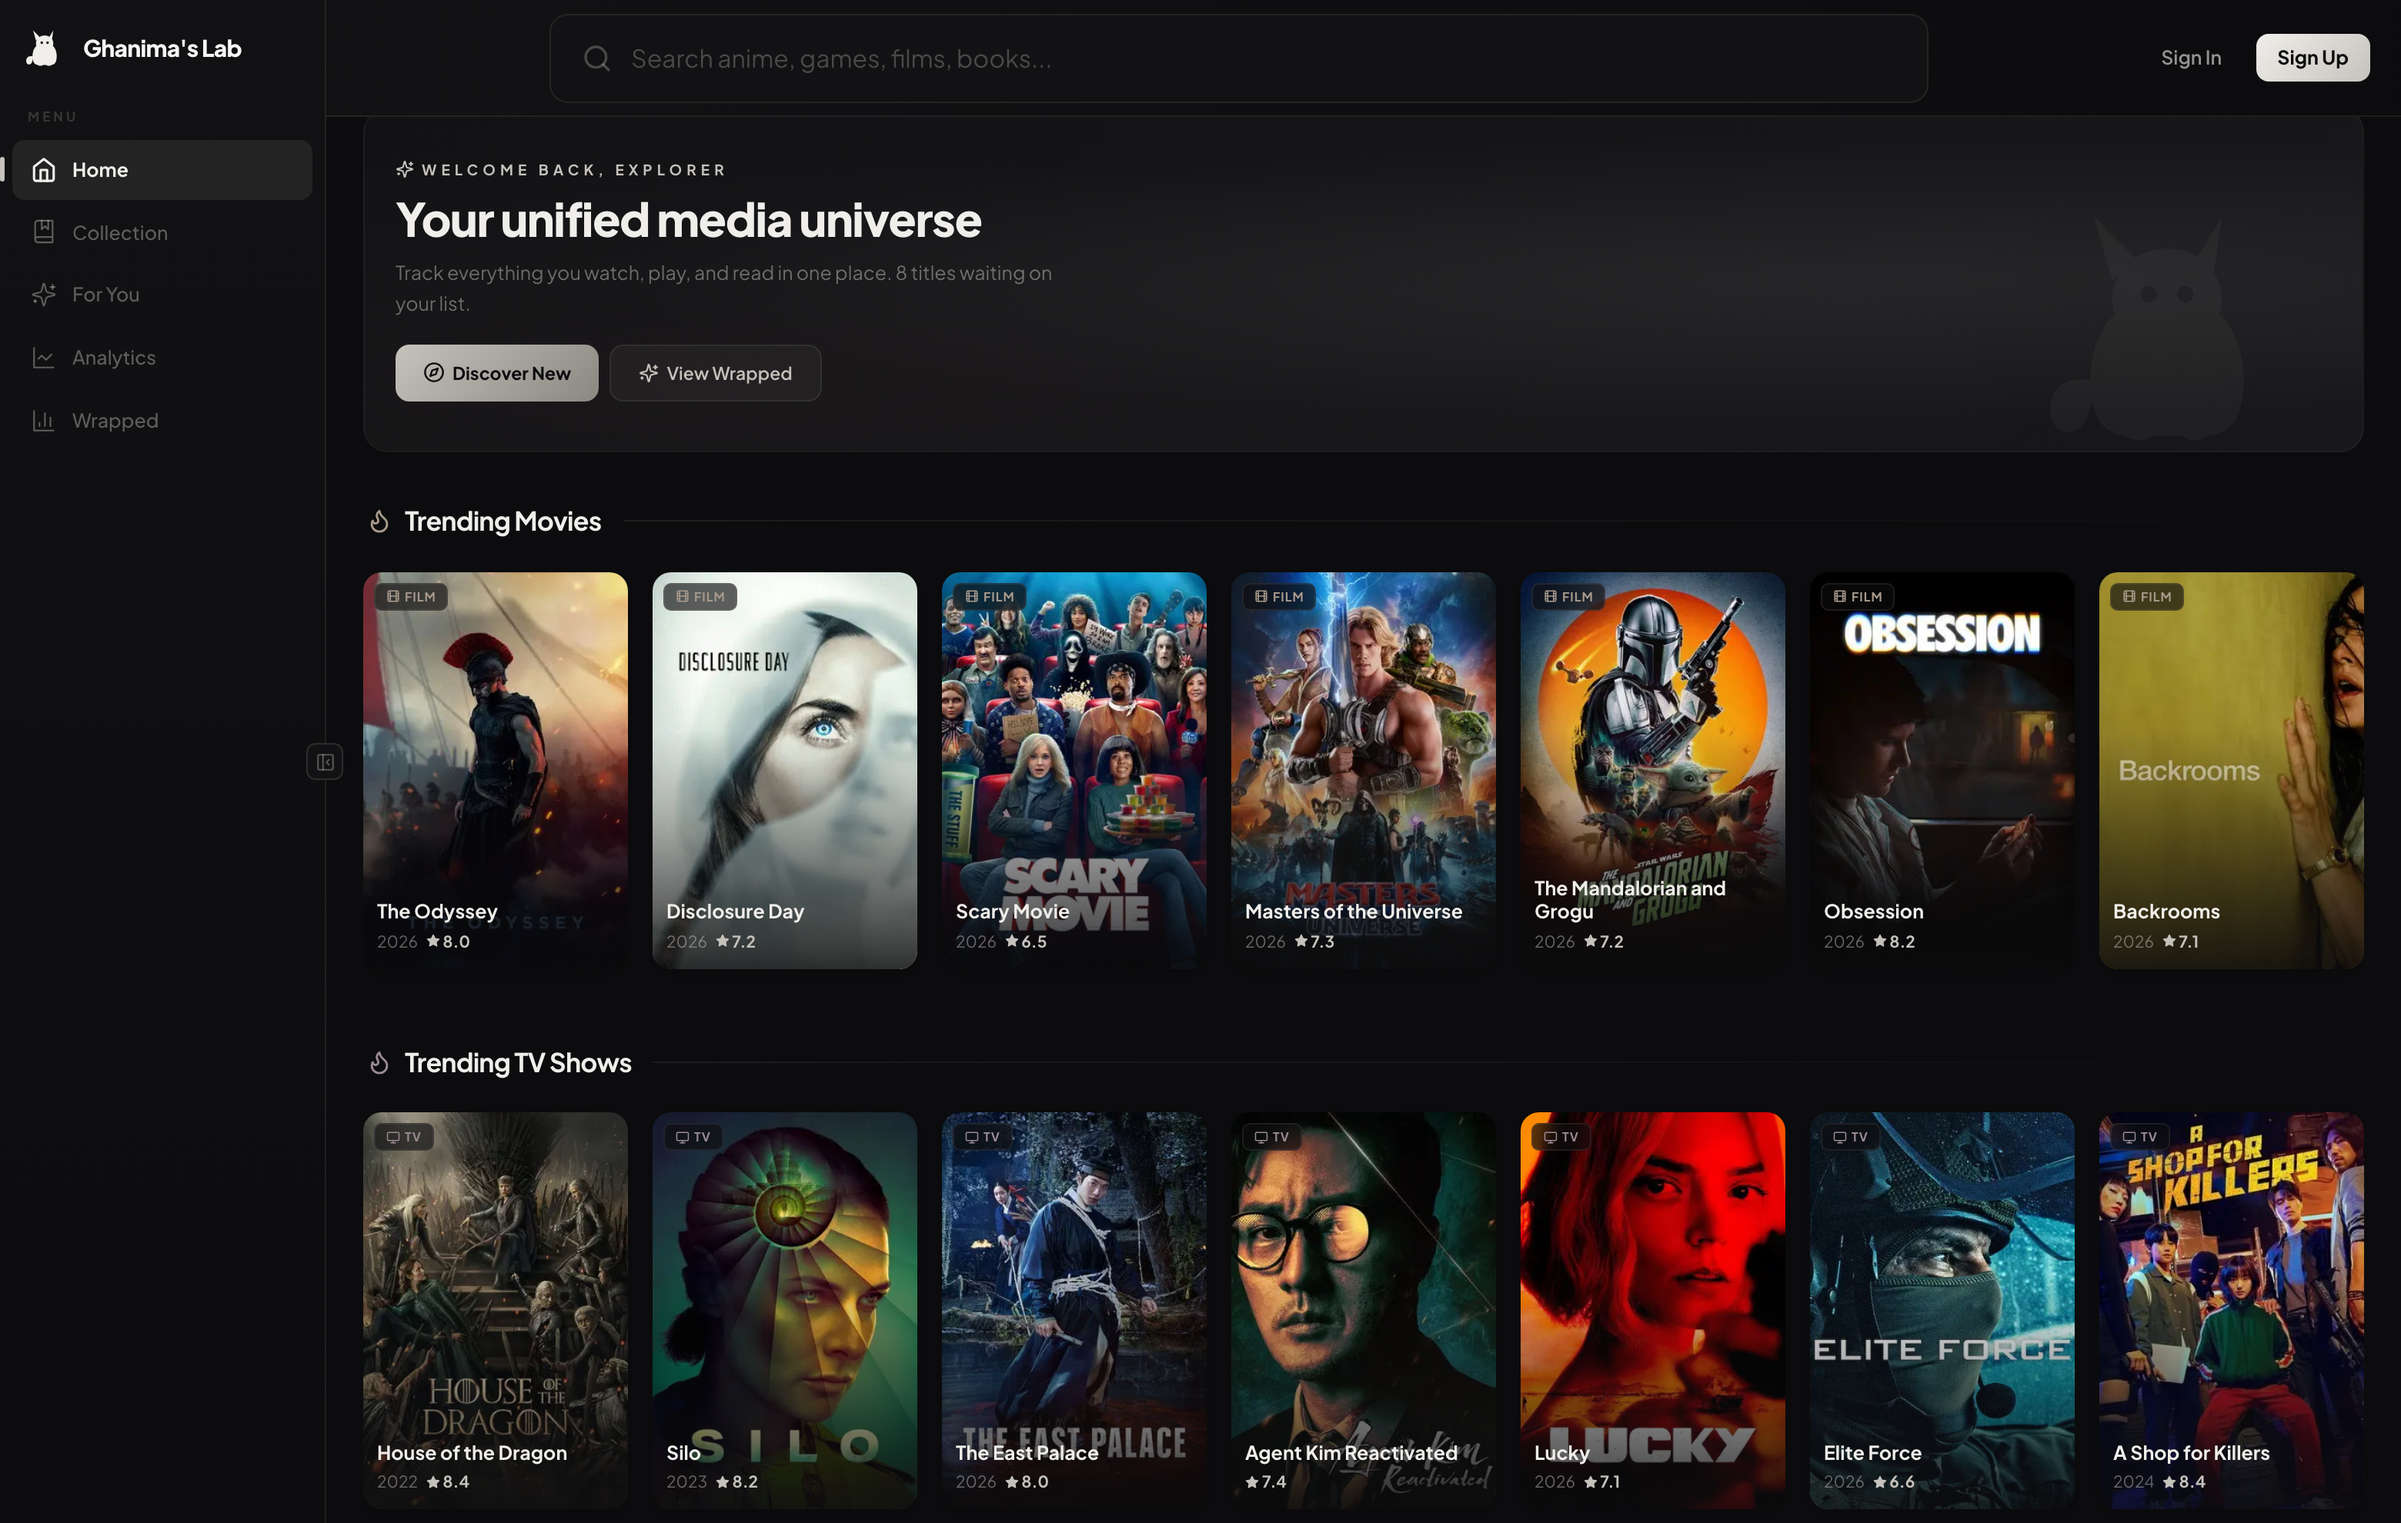
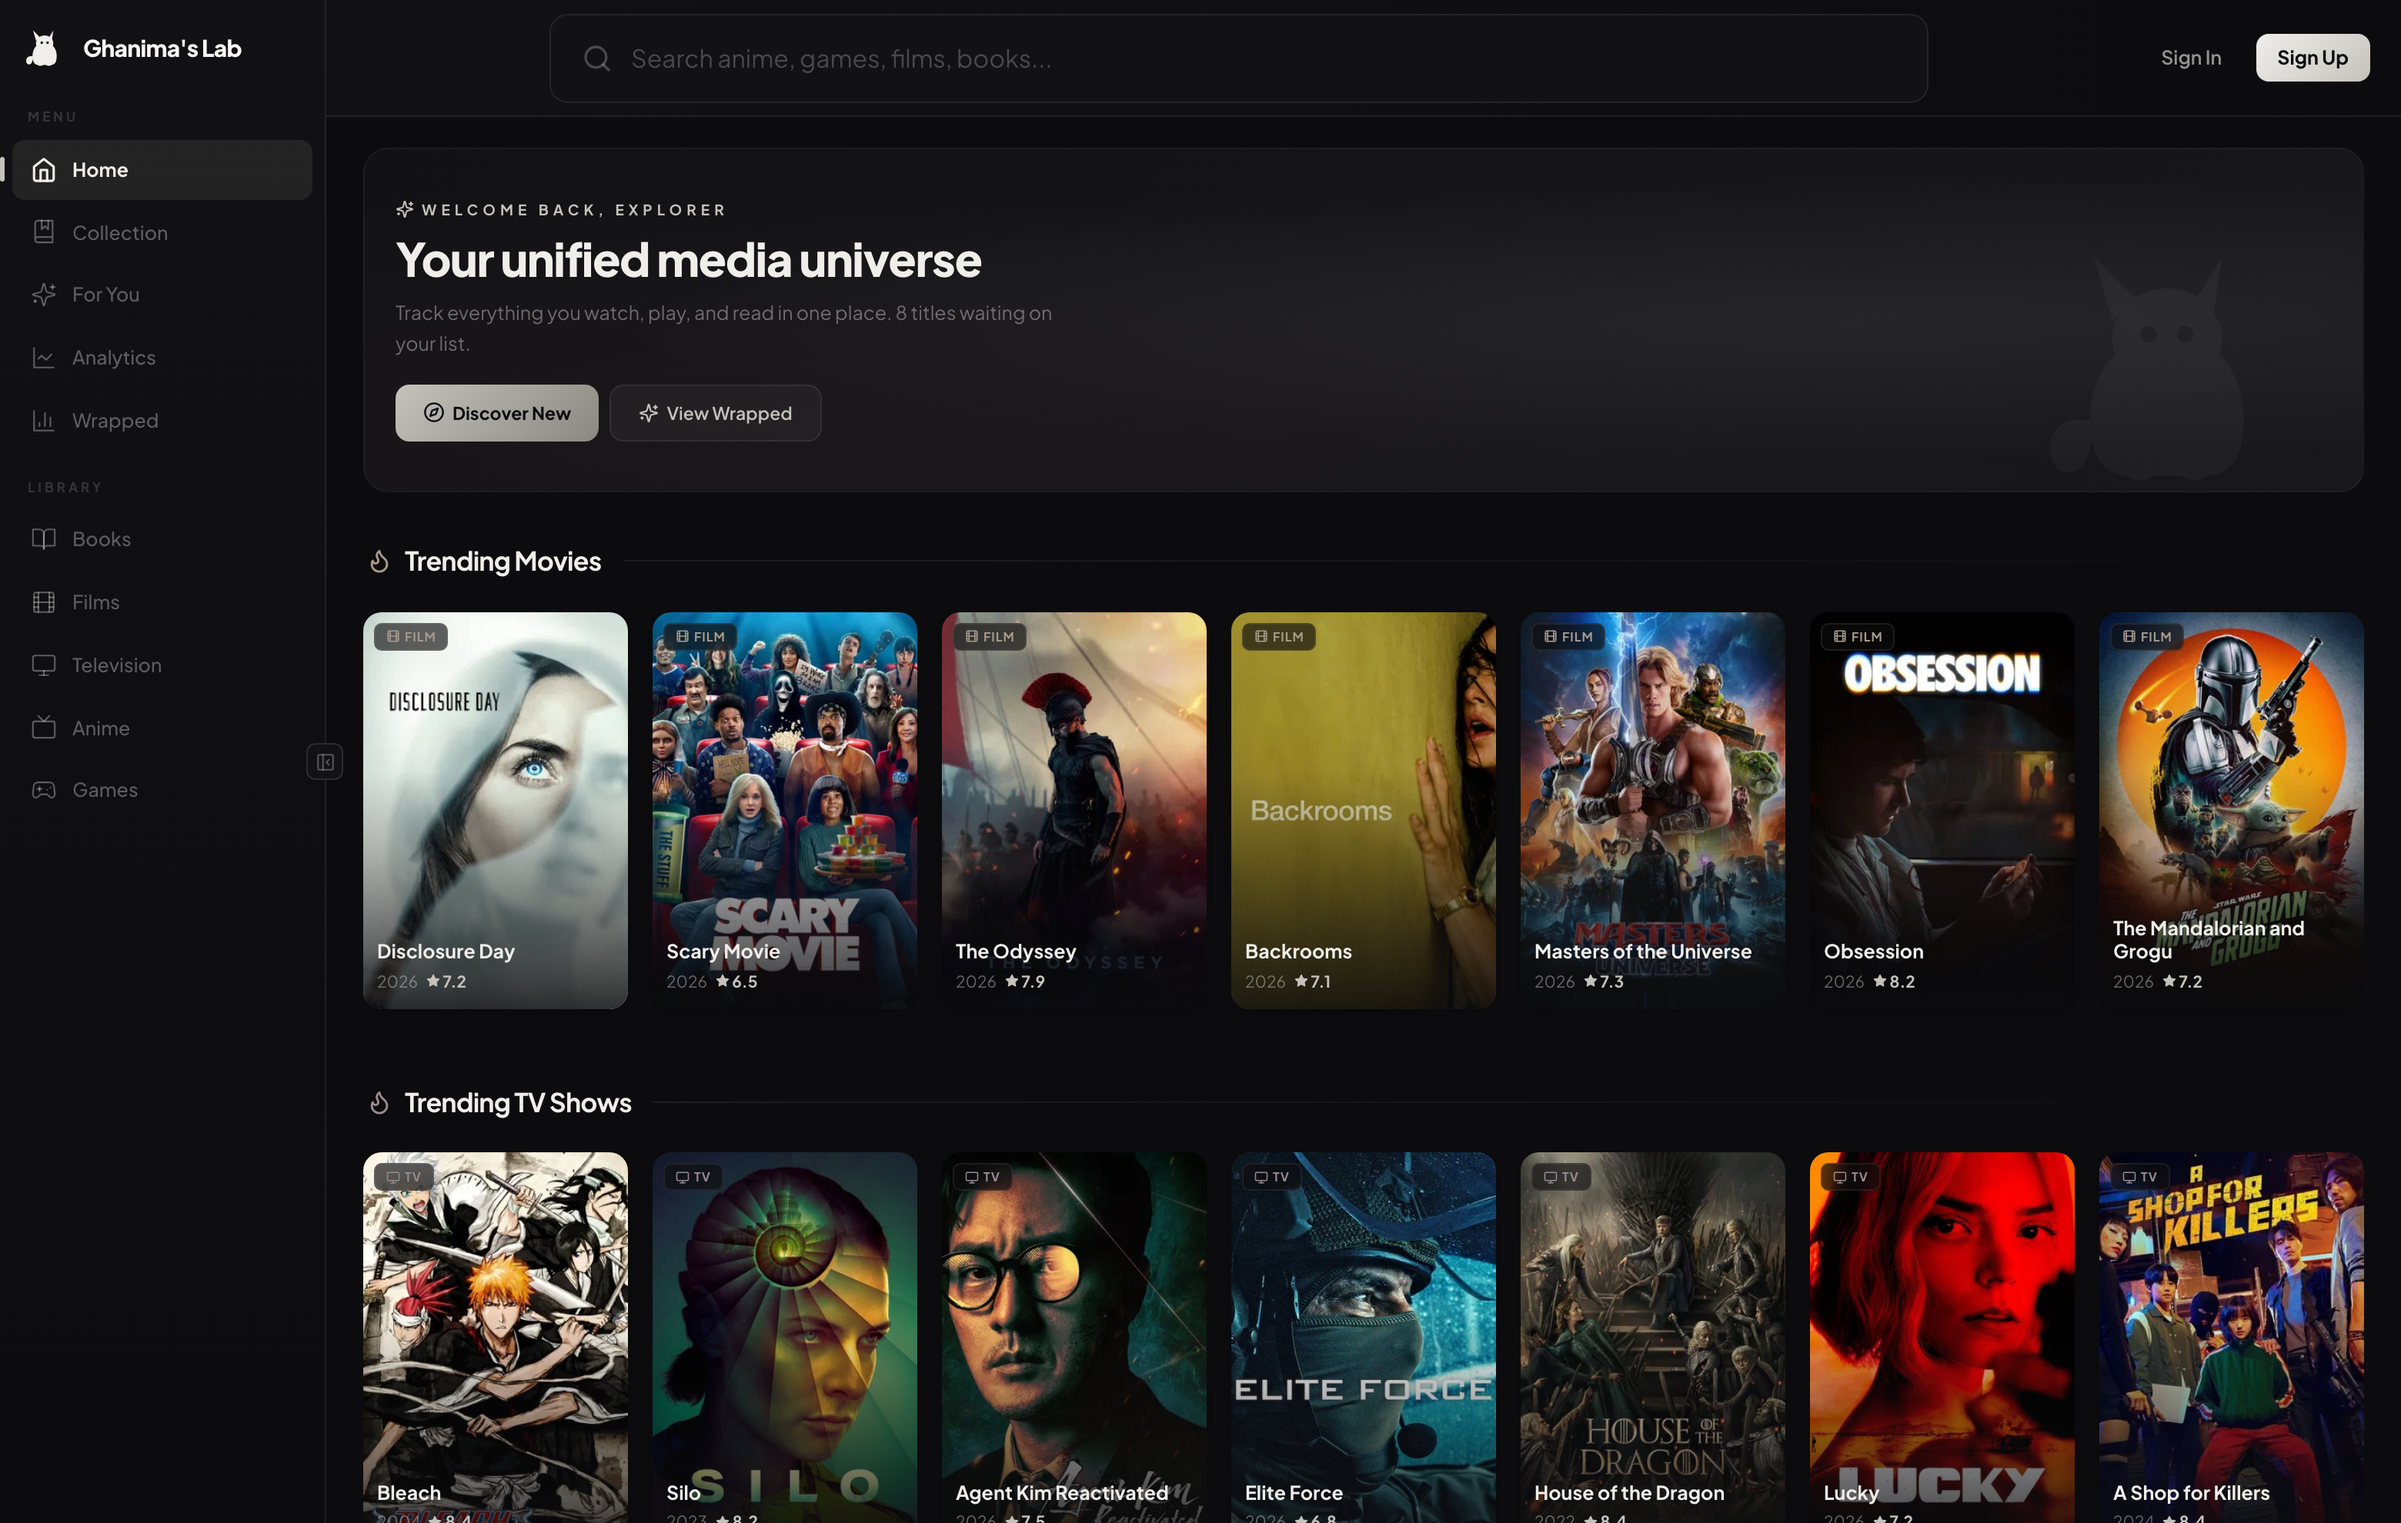
Refresh README with Library section and new production screenshots
Adds The Library product-tour section, a Children of Dune book detail
shot, the One Piece detail card, and an outage-resilience architecture
note; renumbers the screenshot set to eight.

diff --git a/README.md b/README.md
@@ -60,11 +60,13 @@ Built end-to-end as a solo project: scoping a real problem, shipping discovery U
 | Recommend across mediums | For You scoring + diversity weighting + rails named after *your* favorites |
 | Depth per title, JustWatch-style | Runtime, binge time, time-to-beat, read/listen estimates, external scores, cast, franchises, streaming links |
 | No dead ends | Related-titles and Explore-more strips on every card keep the loop going |
+| A library you can wander | Per-medium browse sections with genre pills, free-text themes, and curated era timelines |
+| Feels fast, stays fast | Provider-grouped progressive loading, SWR caching, hover prefetch, hard upstream timeouts |
 | Zero-friction start | Everything works anonymously; sign-in only for discussion |
 
 ### Home — unified discovery
 
-Trending rails across all five mediums, a live activity feed, and stats computed from your actual library (hours this week, current streak, average rating).
+Twenty-plus trending rails across all five mediums — each one an infinite horizontal scroll that keeps paging in fresh titles — plus a live activity feed and stats computed from your actual library (hours this week, current streak, average rating). Rails load progressively by provider, so film and TV paint in a few hundred milliseconds while slower sources stream in behind them.
 
 <p align="center">
   <img src="docs/screenshots/01-homepage.png" alt="Homepage with trending rails, activity feed, and live stats" width="100%" />
@@ -84,12 +86,26 @@ Every title is enriched on open — and the enrichment is prefetched the moment 
   <img src="docs/screenshots/02-media-detail.png" alt="Media detail modal with scores, stats chips, and actions" width="100%" />
 </p>
 
+The same depth applies to books — page counts, reading and audiobook time, Open Library ratings, an Audible link, and a "More by this author" strip:
+
+<p align="center">
+  <img src="docs/screenshots/03-book-detail.png" alt="Book detail modal with reading time, audiobook length, and author strip" width="100%" />
+</p>
+
+### The Library — deep browse per medium
+
+Each medium gets its own wing: a dense, infinitely-scrolling grid with genre pills, free-text theme search ("philosophy", "time travel", "soulslike"), sort controls, and an interactive **era timeline** — tap "Golden Age & High Fantasy" or "New Hollywood" and the shelf filters to that period with a one-line history of why it mattered. It's meant to work like a digital library: type "stoicism" into the book wing and walk out with an audiobook.
+
+<p align="center">
+  <img src="docs/screenshots/04-library-books.png" alt="Book library with genre pills, era timeline, and browse grid" width="100%" />
+</p>
+
 ### Collection — your library
 
 Favorites, completed, and want-to lists with per-medium filters, plus a stats strip (estimated hours finished, top genre) derived from what you've tracked.
 
 <p align="center">
-  <img src="docs/screenshots/03-collection.png" alt="Collection page with list tabs and stats strip" width="100%" />
+  <img src="docs/screenshots/05-collection.png" alt="Collection page with list tabs and stats strip" width="100%" />
 </p>
 
 ### For You — taste-aware recommendations
@@ -97,7 +113,7 @@ Favorites, completed, and want-to lists with per-medium filters, plus a stats st
 A scoring engine builds a taste profile from your library (genres, mediums, ratings) and ranks every candidate against it. Rails explain themselves — and they're personal: "Because you played The Witcher 3" or "From screen to page" instead of a generic genre label. Items are deduplicated across rails so the page reads like a magazine, not an echo.
 
 <p align="center">
-  <img src="docs/screenshots/04-for-you.png" alt="For You page with personalized rails" width="100%" />
+  <img src="docs/screenshots/06-for-you.png" alt="For You page with personalized rails" width="100%" />
 </p>
 
 ### Wrapped — your year (or month, or week) in review
@@ -105,7 +121,7 @@ A scoring engine builds a taste profile from your library (genres, mediums, rati
 A Spotify-Wrapped-style story: total hours, top titles, genre breakdown, streaks, and a taste personality — all computed from the event history, shareable as an Open Graph card.
 
 <p align="center">
-  <img src="docs/screenshots/05-wrapped.png" alt="Wrapped slide showing total hours consumed" width="100%" />
+  <img src="docs/screenshots/07-wrapped.png" alt="Wrapped slide showing total hours consumed" width="100%" />
 </p>
 
 ### Analytics — the quantified library
@@ -113,7 +129,7 @@ A Spotify-Wrapped-style story: total hours, top titles, genre breakdown, streaks
 Hours by medium over time, library status, rating distribution, genre radar, and a daily activity heatmap. No demo numbers — every chart reads from the same event log.
 
 <p align="center">
-  <img src="docs/screenshots/06-analytics.png" alt="Analytics dashboard with charts computed from the library" width="100%" />
+  <img src="docs/screenshots/08-analytics.png" alt="Analytics dashboard with charts computed from the library" width="100%" />
 </p>
 
 ---
@@ -132,6 +148,10 @@ Hours by medium over time, library status, rating distribution, genre radar, and
 ### The unified media model
 
 Every adapter normalizes its source into one `MediaItem` shape — id, type, title, cover, genres, rating, runtime — so search, collection, recommendations, and stats never care where a title came from. Enrichment (cast, scores, links, time estimates) happens lazily in `/api/media/[slug]`, prefetched on card hover so opening a title feels instant; the cross-media Explore strip loads independently from `/api/explore-more` so it never blocks the details. Responses are cached with Next.js revalidation.
+
+### Staying fast when upstreams aren't
+
+Six free third-party APIs means somebody is always slow or down, so the app is built to degrade instead of hang: home rails load in **provider groups** (TMDB, IGDB, Jikan, Open Library) fetched in parallel and cached server-side with stale-while-revalidate; every upstream call carries a hard `AbortSignal` timeout so one flaky source can't stall a search fan-out; and shelves that depend on a live query fall back to that provider's cached top lists during an outage (MyAnimeList goes down more often than you'd think).
 
 ### How search ranking works
 
@@ -264,6 +284,10 @@ Ghanimas-Lab/
 Shipped:
 
 - [x] Cross-source search and trending rails
+- [x] The Library — per-medium browse wings with genre pills, theme search, and curated era timelines
+- [x] Infinite carousels backed by a 28-rail paged registry
+- [x] Progressive home loading (provider groups + server-side SWR cache)
+- [x] Outage resilience — hard upstream timeouts + cached-list fallbacks
 - [x] Popularity-weighted search ranking (per-source log-scaled signals)
 - [x] Open Library integration — popular book rails + quota-proof fallback
 - [x] Collection, ratings, For You, Wrapped
